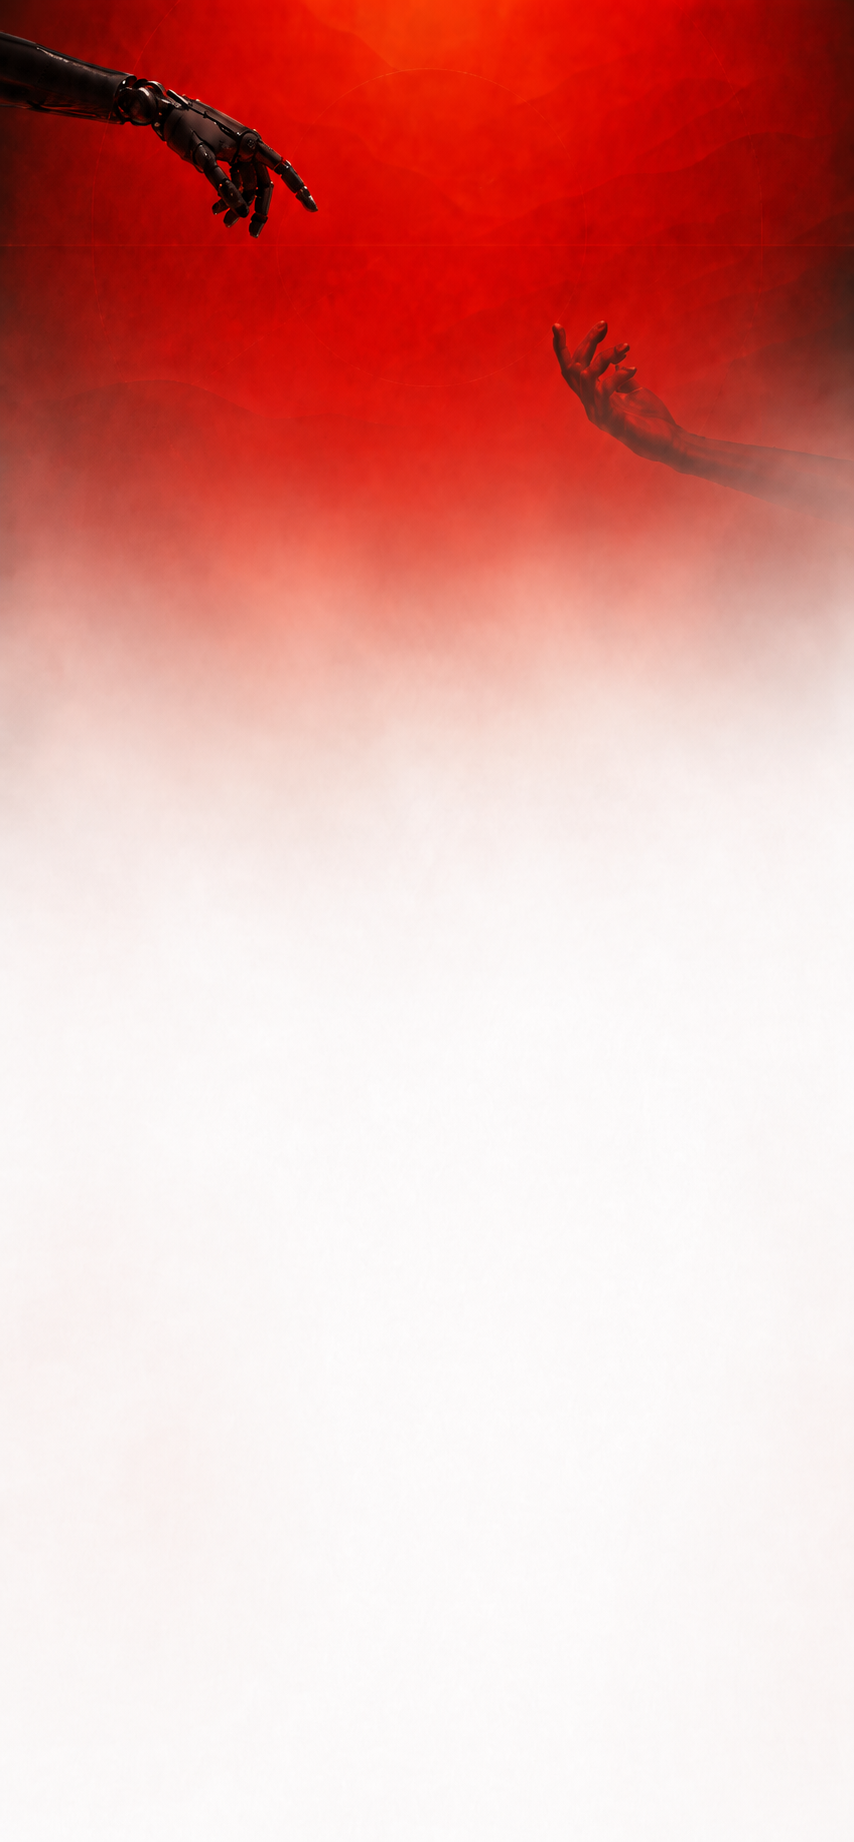
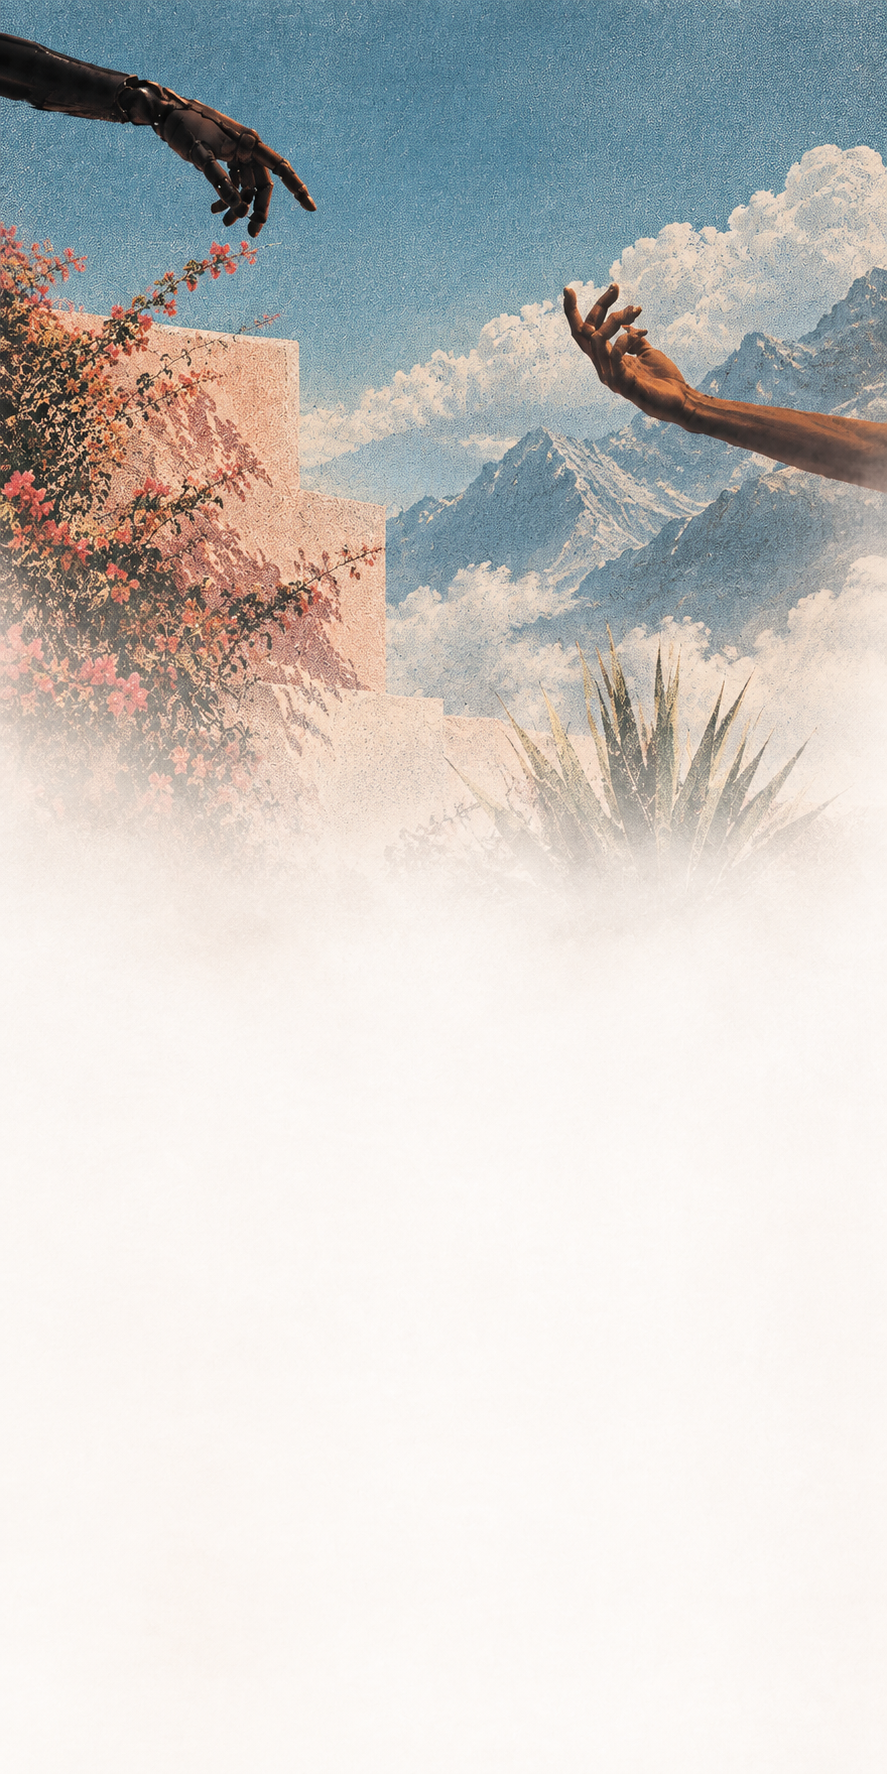
style(hero): refine hero section typography, background assets and button hover effects

diff --git a/components/hero-copy.tsx b/components/hero-copy.tsx
@@ -1,8 +1,7 @@
 "use client";
 
 import { useState } from "react";
-import { GitFork } from "lucide-react";
-import { sourceUrl } from "@/lib/content";
+import { ArrowUpRight } from "lucide-react";
 import { TextAnimate } from "@/registry/magicui/text-animate";
 
 export function HeroCopy() {
@@ -28,13 +27,13 @@ export function HeroCopy() {
         className="hero-description"
         onAnimationComplete={() => setIsDescriptionComplete(true)}
       >
-        {`Macky stays quietly in your Mac's notch, ready when you need a hand.
+        {`Macky lives quietly in your Mac's notch until you need a hand.
 Hold a key, say what you need, and it gets to work across your apps.
-No extra windows, no broken focus, and no need to pause your flow.`}
+No extra windows. No broken focus. Just back to what you were doing.`}
       </TextAnimate>
       <div className={`hero-actions${isDescriptionComplete ? " is-visible" : ""}`} aria-hidden={!isDescriptionComplete}>
-        <a className="button button-dark" href={sourceUrl} target="_blank" rel="noreferrer" tabIndex={isDescriptionComplete ? 0 : -1}>
-          <GitFork size={18} /> Get Macky for macOS
+        <a className="button button-dark" href="/waitlist" tabIndex={isDescriptionComplete ? 0 : -1}>
+          Request early access <ArrowUpRight size={18} />
         </a>
       </div>
     </div>
